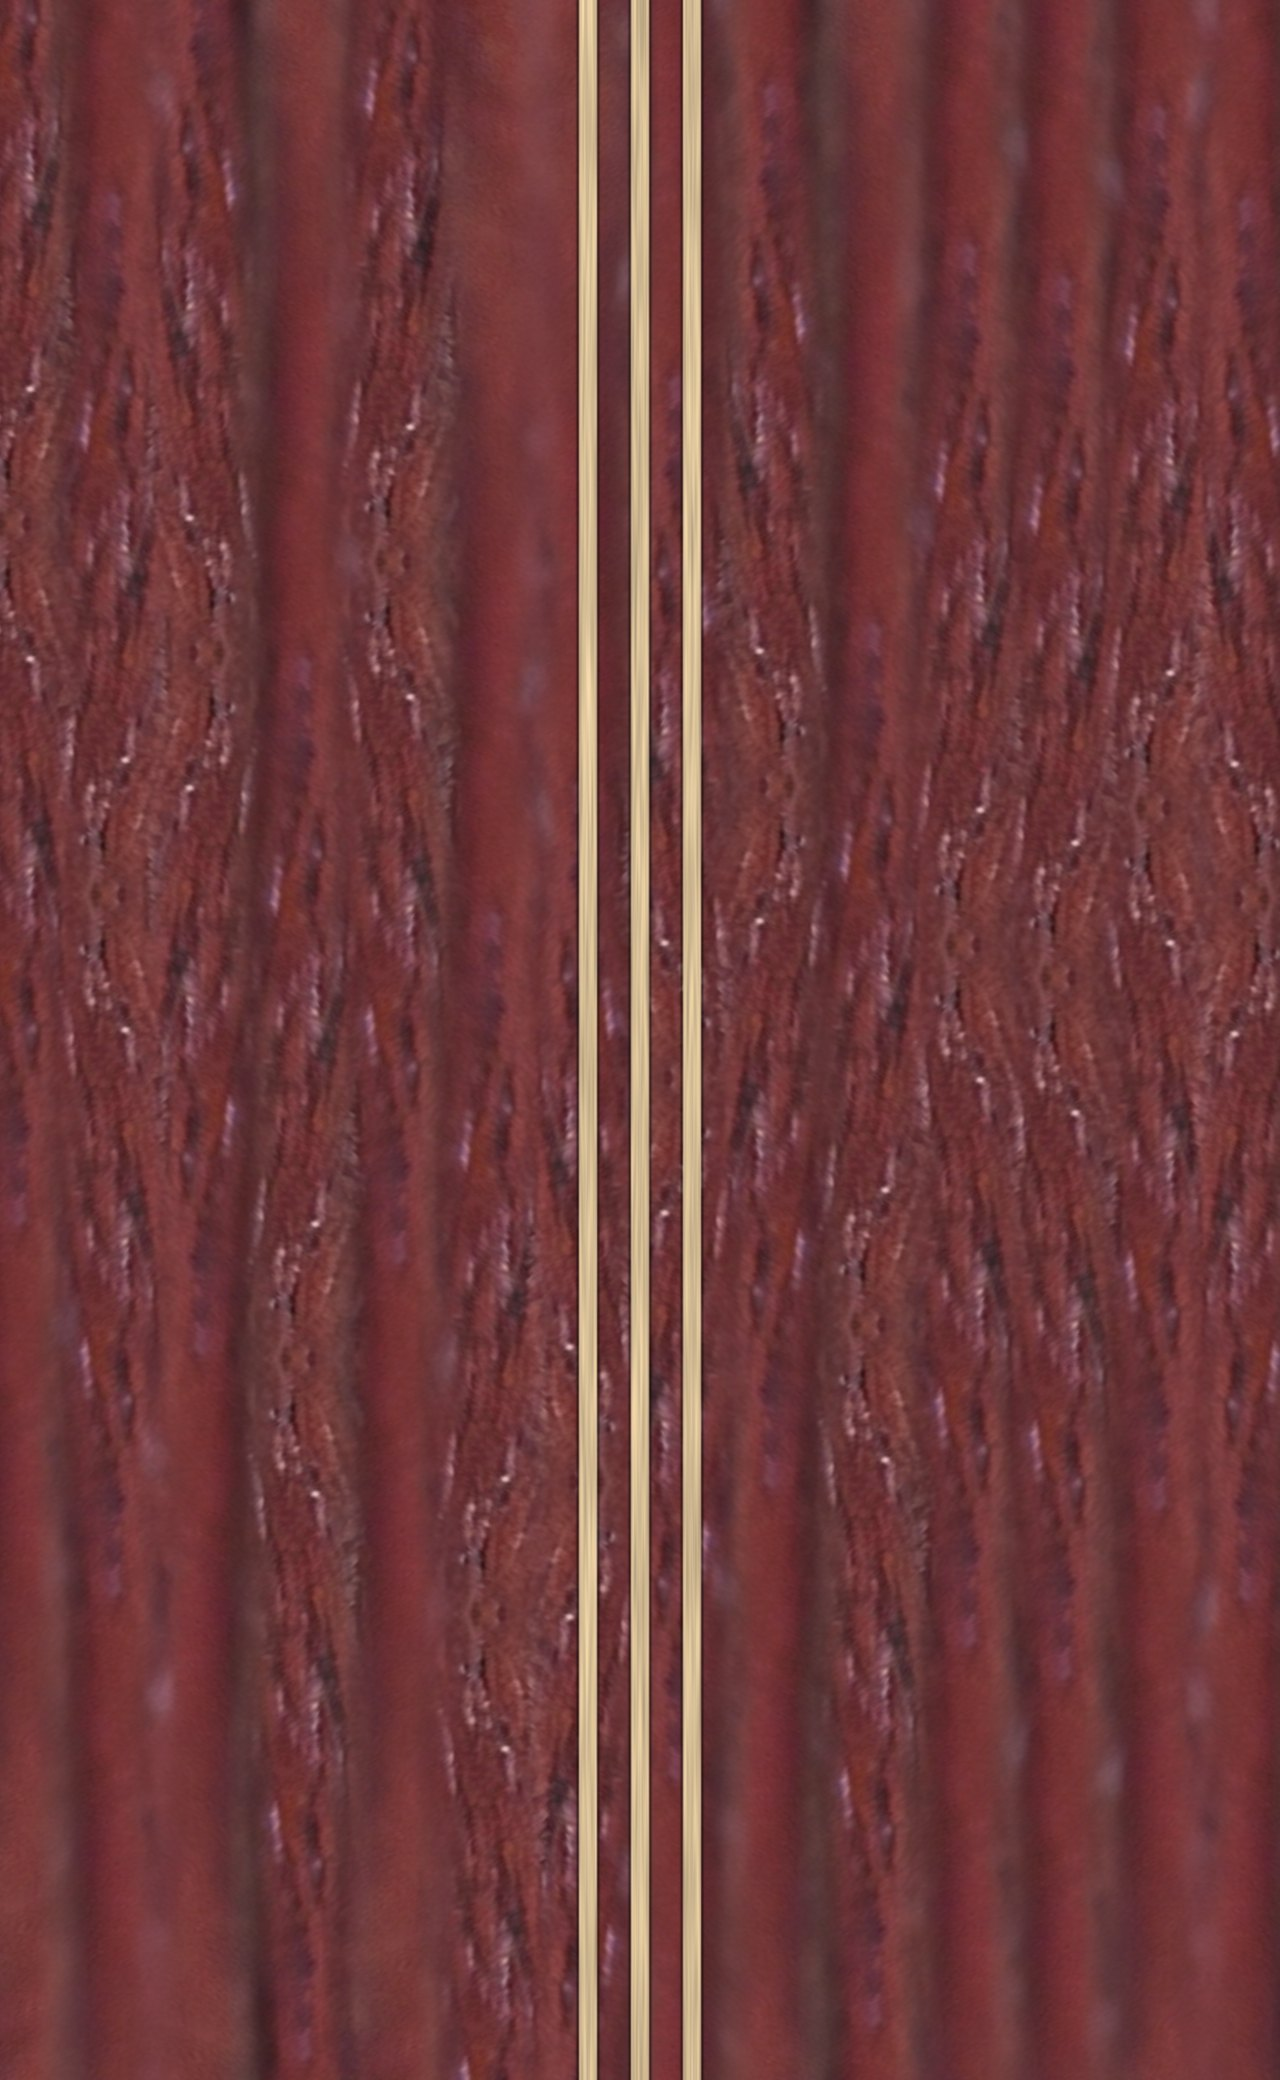
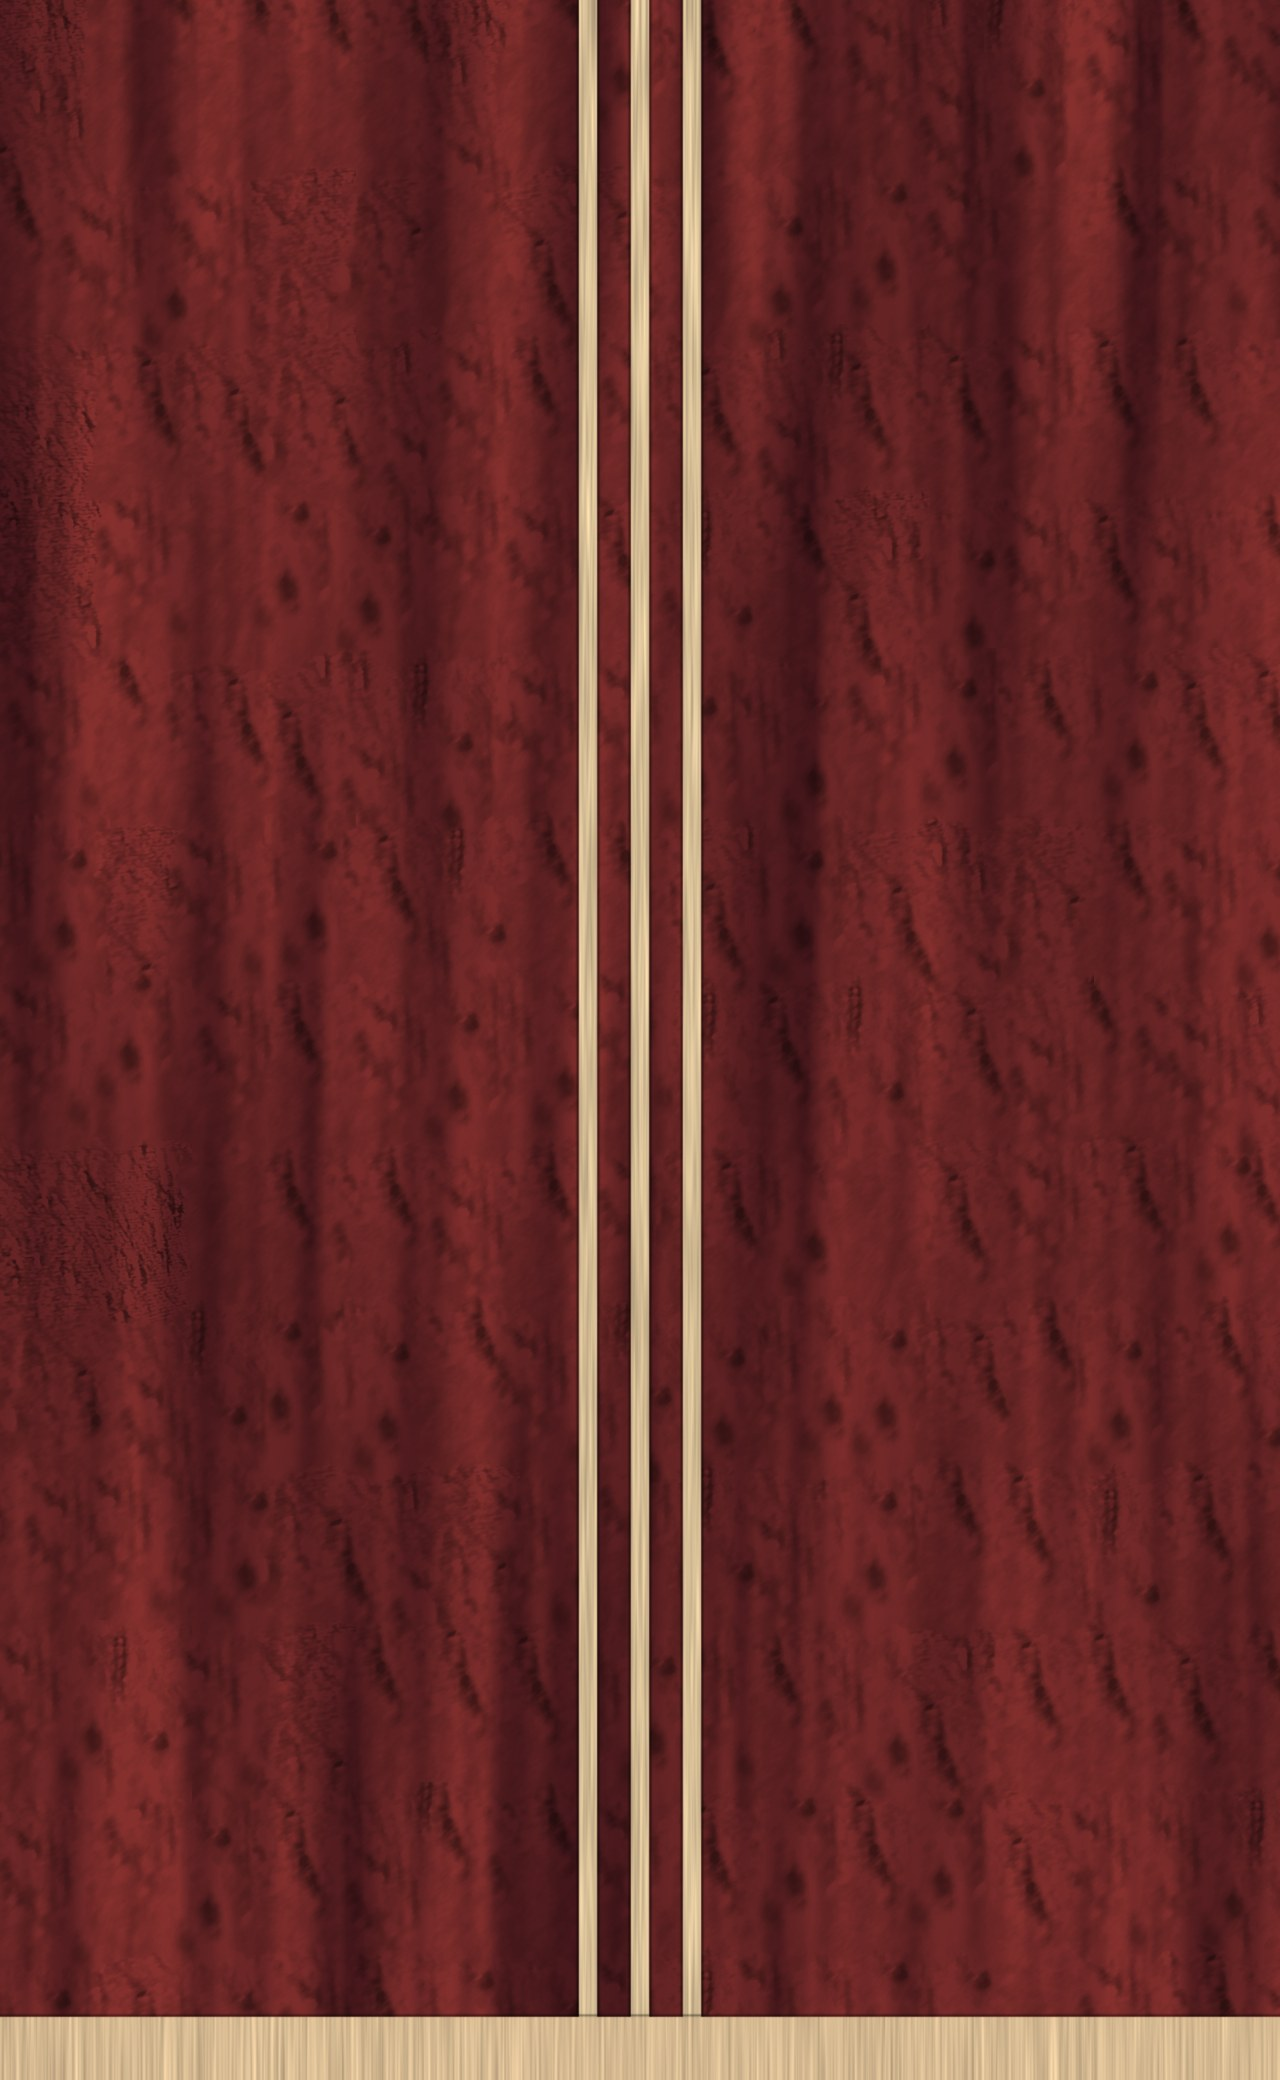
fix(demo): rebuild handle 2 from the photo
Real pores quilted without mirroring, the side line on the blade
plane, a pale cap band and a cleaner oak end cap.

diff --git a/index.html b/index.html
@@ -29,10 +29,10 @@ const key=new THREE.DirectionalLight(0xfff6ea,.85);key.position.set(60,80,200);c
 const ctl=new OrbitControls(cam,cv);ctl.enableDamping=true;ctl.dampingFactor=.08;ctl.enablePan=false;ctl.minDistance=70;ctl.maxDistance=1100;ctl.minPolarAngle=0;ctl.maxPolarAngle=Math.PI;
 const tl=new THREE.TextureLoader(),A=r.capabilities.getMaxAnisotropy();
 const T=async(n,c=1)=>{const t=await tl.loadAsync('tex/'+n+'.jpg');t.colorSpace=c?THREE.SRGBColorSpace:THREE.NoColorSpace;t.anisotropy=A;return t};
-const [ft,fn,bt,bn,h1f,h1fn,h1b,h1bn,h2,h2n,b1,b2,ed,M]=await Promise.all([T('front'),T('front_n',0),T('back'),T('back_n',0),T('h1f'),T('h1f_n',0),T('h1b'),T('h1b_n',0),T('h2'),T('h2_n',0),T('b1'),T('b2'),T('edge'),fetch('mesh.json').then(x=>x.json())]);
+const [ft,fn,bt,bn,h1f,h1fn,h1b,h1bn,h2,h2n,h2b,h2bn,tg,b1,b2,ed,M]=await Promise.all([T('front'),T('front_n',0),T('back'),T('back_n',0),T('h1f'),T('h1f_n',0),T('h1b'),T('h1b_n',0),T('h2'),T('h2_n',0),T('h2b'),T('h2b_n',0),T('tang'),T('b1'),T('b2'),T('edge'),fetch('mesh.json').then(x=>x.json())]);
 ed.wrapS=THREE.RepeatWrapping;
 const pm=(map,nm,rough,cc=0,ns=.5,sp=.5)=>new THREE.MeshPhysicalMaterial({map,normalMap:nm||null,normalScale:new THREE.Vector2(ns,ns),roughness:rough,clearcoat:cc,clearcoatRoughness:.5,specularIntensity:sp});
-const mat={front:pm(ft,fn,.48,.06),back:pm(bt,bn,.48,.06),edge:pm(ed,null,.62),h1f:pm(h1f,h1fn,.62,0,.6,.3),h1b:pm(h1b,h1bn,.62,0,.6,.3),h2:pm(h2,h2n,.44,.1,.28,.45),b1:pm(b1,null,.6),b2:pm(b2,null,.66)};
+const mat={front:pm(ft,fn,.48,.06),back:pm(bt,bn,.48,.06),edge:pm(ed,null,.62),h1f:pm(h1f,h1fn,.62,0,.6,.3),h1b:pm(h1b,h1bn,.62,0,.6,.3),h2:pm(h2,h2n,.42,.12,.35,.5),h2b:pm(h2b,h2bn,.42,.12,.35,.5),tang:pm(tg,null,.42,.12),b1:pm(b1,null,.6),b2:pm(b2,null,.66)};
 const g=new THREE.Group();sc.add(g);g.position.y=-129;
 function build(m,kind){
   const P=m.position,N=m.normal,I=m.index,hd=kind!=='blade';
@@ -67,8 +67,26 @@ function build(m,kind){
 }
 const blade=new THREE.Mesh(build(M[0],'blade'),[mat.front,mat.back,mat.edge,mat.b1]);g.add(blade);
 const hf=new THREE.Mesh(build(M[1],'front'),[mat.h1f,mat.b1]),hb=new THREE.Mesh(build(M[2],'back'),[mat.h1b,mat.b1]);g.add(hf,hb);
+function tangStrip(m){
+  const P=m.position,N=m.normal,I=m.index,pos=[],nor=[],uv=[];
+  for(let t=0;t<I.length;t+=3){
+    let nz=0,ny=0,y=1e9;for(let k=0;k<3;k++){const v=I[t+k];nz+=N[v*3+2]/3;ny+=N[v*3+1]/3;y=Math.min(y,P[v*3+1])}
+    if(Math.abs(nz)>.9||y>=102||(ny<-.7&&y<3))continue;
+    for(let k=0;k<3;k++){const v=I[t+k];pos.push(P[v*3],P[v*3+1],P[v*3+2]);nor.push(N[v*3],N[v*3+1],N[v*3+2]);uv.push((P[v*3+2]+3)/6,P[v*3+1]/104)}
+  }
+  const geo=new THREE.BufferGeometry();
+  geo.setAttribute('position',new THREE.Float32BufferAttribute(pos,3));geo.setAttribute('normal',new THREE.Float32BufferAttribute(nor,3));geo.setAttribute('uv',new THREE.Float32BufferAttribute(uv,2));
+  return geo;
+}
+mat.tang.polygonOffset=true;mat.tang.polygonOffsetFactor=-2;mat.tang.polygonOffsetUnits=-2;
+mat.tang.onBeforeCompile=s=>{
+  s.vertexShader=s.vertexShader.replace('#include <common>','#include <common>\nvarying vec3 vLocal;').replace('#include <begin_vertex>','#include <begin_vertex>\nvLocal=position;');
+  s.fragmentShader=s.fragmentShader.replace('#include <common>','#include <common>\nvarying vec3 vLocal;\n').replace('#include <clipping_planes_fragment>',`#include <clipping_planes_fragment>
+    if(vLocal.y>80.||abs(vLocal.x)>18.)discard;`);
+};
+const tang=new THREE.Mesh(tangStrip(M[0]),mat.tang);tang.visible=false;g.add(tang);
 function setHandle(n){
-  const w=n==2;hf.material=[w?mat.h2:mat.h1f,w?mat.b2:mat.b1];hb.material=[w?mat.h2:mat.h1b,w?mat.b2:mat.b1];blade.material[3]=w?mat.b2:mat.b1;
+  const w=n==2;hf.material=[w?mat.h2:mat.h1f,w?mat.b2:mat.b1];hb.material=[w?mat.h2b:mat.h1b,w?mat.b2:mat.b1];blade.material[3]=w?mat.b2:mat.b1;tang.visible=w;
   document.querySelectorAll('[data-h]').forEach(b=>b.setAttribute('aria-pressed',String(b.dataset.h==n)));
 }
 const VIEWS={front:[[0,0,1],0,1],back:[[0,0,-1],0,1],edge:[[1,.02,.12],0,1],three:[[.5,.2,.85],0,1],handle:[[.42,.1,.9],-78,.42],butt:[[.22,-1,.42],-120,.3]};
